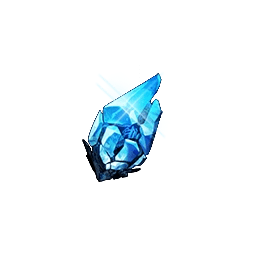
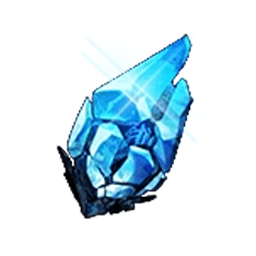
物品识别优化

Changed region(s): [[0.2188, 0.125, 0.7812, 0.875]]

diff --git a/module/warehouse_stats/assets.py b/module/warehouse_stats/assets.py
@@ -33,8 +33,9 @@ CREDIT_ICON = Button(area={'zh-CN': (12, 24, 252, 236), 'en-US': (12, 24, 252, 2
 CREDIT_TEMPLATE = Button(area={'zh-CN': (363, 311, 426, 349), 'en-US': (363, 311, 426, 349)}, color={'zh-CN': (126, 122, 118), 'en-US': (126, 122, 118)}, button={'zh-CN': (363, 311, 426, 349), 'en-US': (363, 311, 426, 349)}, file={'zh-CN': './assets/zh-CN/warehouse_stats/CREDIT_TEMPLATE.png', 'en-US': './assets/zh-CN/warehouse_stats/CREDIT_TEMPLATE.png'})
 CURATED_MANUFACTURE_ARMS_ICON = Button(area={'zh-CN': (12, 20, 252, 233), 'en-US': (12, 20, 252, 233)}, color={'zh-CN': (30, 27, 28), 'en-US': (30, 27, 28)}, button={'zh-CN': (12, 20, 252, 233), 'en-US': (12, 20, 252, 233)}, file={'zh-CN': './assets/zh-CN/warehouse_stats/CURATED_MANUFACTURE_ARMS_ICON.png', 'en-US': './assets/zh-CN/warehouse_stats/CURATED_MANUFACTURE_ARMS_ICON.png'})
 CUSTOM_LOCK_ICON = Button(area={'zh-CN': (10, 32, 243, 224), 'en-US': (10, 32, 243, 224)}, color={'zh-CN': (42, 41, 44), 'en-US': (42, 41, 44)}, button={'zh-CN': (10, 32, 243, 224), 'en-US': (10, 32, 243, 224)}, file={'zh-CN': './assets/zh-CN/warehouse_stats/CUSTOM_LOCK_ICON.png', 'en-US': './assets/zh-CN/warehouse_stats/CUSTOM_LOCK_ICON.png'})
-CUSTOM_MODULE_ICON = Button(area={'zh-CN': (64, 65, 184, 192), 'en-US': (64, 65, 184, 192)}, color={'zh-CN': (34, 66, 81), 'en-US': (34, 66, 81)}, button={'zh-CN': (64, 65, 184, 192), 'en-US': (64, 65, 184, 192)}, file={'zh-CN': './assets/zh-CN/warehouse_stats/CUSTOM_MODULE_ICON.png', 'en-US': './assets/zh-CN/warehouse_stats/CUSTOM_MODULE_ICON.png'})
+CUSTOM_MODULE_ICON = Button(area={'zh-CN': (0, 0, 256, 256), 'en-US': (0, 0, 256, 256)}, color={'zh-CN': (141, 176, 192), 'en-US': (141, 176, 192)}, button={'zh-CN': (0, 0, 256, 256), 'en-US': (0, 0, 256, 256)}, file={'zh-CN': './assets/zh-CN/warehouse_stats/CUSTOM_MODULE_ICON.png', 'en-US': './assets/zh-CN/warehouse_stats/CUSTOM_MODULE_ICON.png'})
 CUSTOM_MODULE_SHARD_ICON = Button(area={'zh-CN': (12, 4, 243, 251), 'en-US': (12, 4, 243, 251)}, color={'zh-CN': (67, 55, 49), 'en-US': (67, 55, 49)}, button={'zh-CN': (12, 4, 243, 251), 'en-US': (12, 4, 243, 251)}, file={'zh-CN': './assets/zh-CN/warehouse_stats/CUSTOM_MODULE_SHARD_ICON.png', 'en-US': './assets/zh-CN/warehouse_stats/CUSTOM_MODULE_SHARD_ICON.png'})
+CUSTOM_MODULE_TEMPLATE = Button(area={'zh-CN': (188, 986, 225, 1017), 'en-US': (188, 986, 225, 1017)}, color={'zh-CN': (63, 159, 211), 'en-US': (63, 159, 211)}, button={'zh-CN': (188, 986, 225, 1017), 'en-US': (188, 986, 225, 1017)}, file={'zh-CN': './assets/zh-CN/warehouse_stats/CUSTOM_MODULE_TEMPLATE.png', 'en-US': './assets/zh-CN/warehouse_stats/CUSTOM_MODULE_TEMPLATE.png'})
 DEFENDERS_COMMON_CONSOLE_ICON = Button(area={'zh-CN': (0, 0, 256, 256), 'en-US': (0, 0, 256, 256)}, color={'zh-CN': (104, 127, 92), 'en-US': (104, 127, 92)}, button={'zh-CN': (0, 0, 256, 256), 'en-US': (0, 0, 256, 256)}, file={'zh-CN': './assets/zh-CN/warehouse_stats/DEFENDERS_COMMON_CONSOLE_ICON.png', 'en-US': './assets/zh-CN/warehouse_stats/DEFENDERS_COMMON_CONSOLE_ICON.png'})
 DEFENDERS_COMMON_CONSOLE_TEMPLATE = Button(area={'zh-CN': (604, 739, 641, 774), 'en-US': (604, 739, 641, 774)}, color={'zh-CN': (177, 207, 122), 'en-US': (177, 207, 122)}, button={'zh-CN': (604, 739, 641, 774), 'en-US': (604, 739, 641, 774)}, file={'zh-CN': './assets/zh-CN/warehouse_stats/DEFENDERS_COMMON_CONSOLE_TEMPLATE.png', 'en-US': './assets/zh-CN/warehouse_stats/DEFENDERS_COMMON_CONSOLE_TEMPLATE.png'})
 D_M_T_R_CODE_MANUAL_ICON = Button(area={'zh-CN': (48, 32, 205, 228), 'en-US': (48, 32, 205, 228)}, color={'zh-CN': (102, 73, 16), 'en-US': (102, 73, 16)}, button={'zh-CN': (48, 32, 205, 228), 'en-US': (48, 32, 205, 228)}, file={'zh-CN': './assets/zh-CN/warehouse_stats/D_M_T_R_CODE_MANUAL_ICON.png', 'en-US': './assets/zh-CN/warehouse_stats/D_M_T_R_CODE_MANUAL_ICON.png'})
